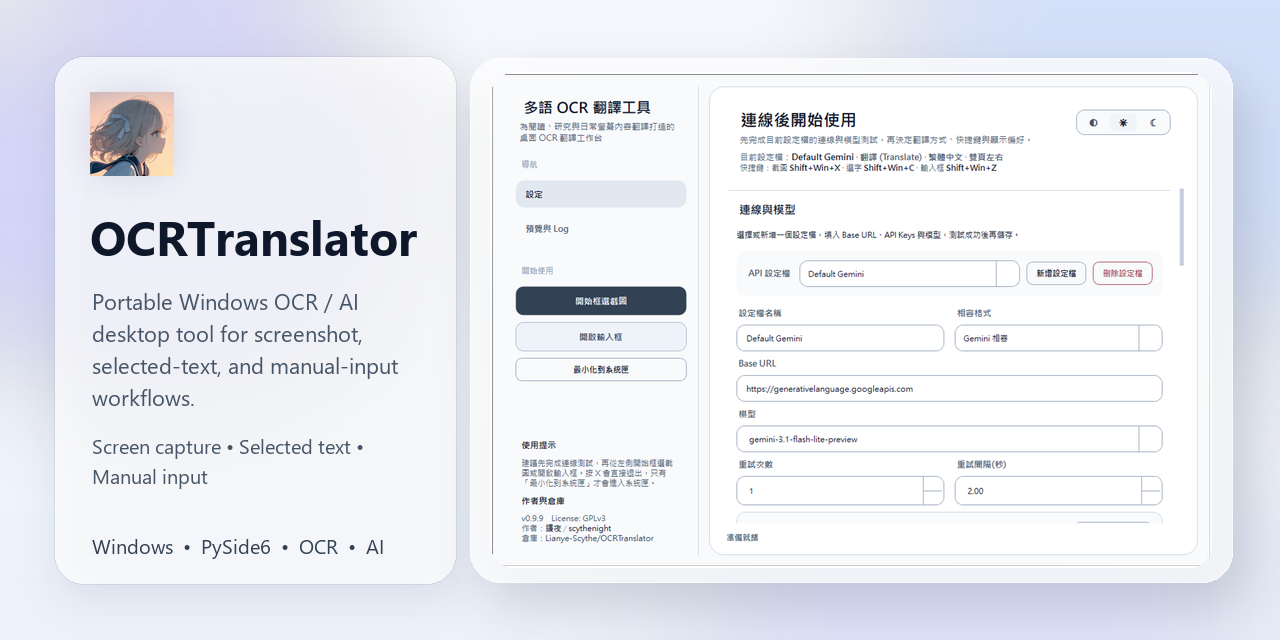
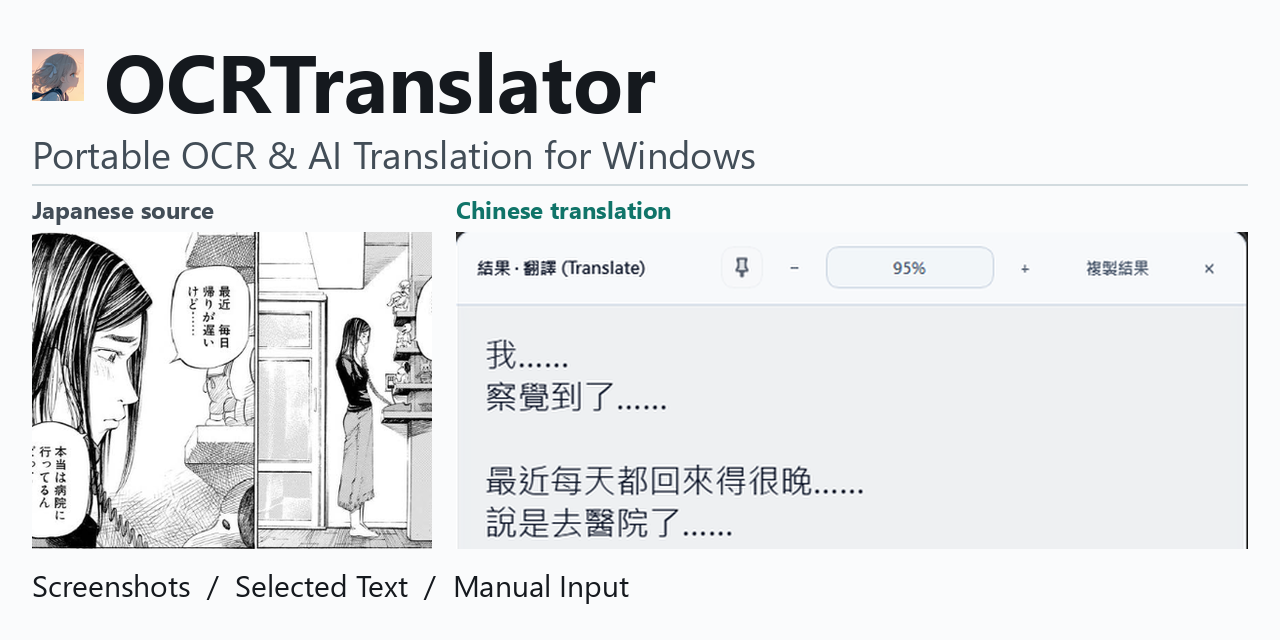
design: make repository sharing preview readable at thumbnail size

diff --git a/tools/generate_social_preview.py b/tools/generate_social_preview.py
@@ -1,215 +1,85 @@
 from __future__ import annotations
 
+import argparse
 from pathlib import Path
 
-from PIL import Image, ImageDraw, ImageFilter, ImageFont, ImageOps
+from PIL import Image, ImageDraw, ImageFont, ImageOps
 
 ROOT = Path(__file__).resolve().parents[1]
-SCREENSHOT_PATH = ROOT / "docs/images/screenshots/main-window-light.png"
+SCREENSHOT_PATH = ROOT / "docs/images/screenshots/overlay-light-manga.png"
 ICON_PATH = ROOT / "app/assets/icons/app-icon-256.png"
 OUTPUT_PATH = ROOT / "docs/images/social-preview.png"
 
-CANVAS_WIDTH = 1280
-CANVAS_HEIGHT = 640
-
-BACKGROUND_TOP = (246, 248, 252)
-BACKGROUND_BOTTOM = (236, 242, 252)
-ACCENT_PRIMARY = (37, 99, 235)
-ACCENT_SECONDARY = (79, 70, 229)
-TEXT_PRIMARY = (15, 23, 42)
-TEXT_SECONDARY = (71, 85, 105)
-TEXT_TERTIARY = (51, 65, 85)
-PANEL_FILL = (255, 255, 255, 188)
-PANEL_BORDER = (148, 163, 184, 54)
-SCREENSHOT_BORDER = (255, 255, 255, 230)
+CANVAS_SIZE = (1280, 640)
+SAFE_MARGIN = 32
+BACKGROUND = (250, 251, 252)
+TEXT_PRIMARY = (21, 25, 30)
+TEXT_SECONDARY = (66, 77, 87)
+ACCENT = (16, 116, 105)
 
 
 def load_font(size: int, bold: bool = False) -> ImageFont.FreeTypeFont | ImageFont.ImageFont:
-    font_candidates = []
-    if bold:
-        font_candidates.extend(
-            [
-                "C:/Windows/Fonts/segoeuib.ttf",
-                "C:/Windows/Fonts/arialbd.ttf",
-                "C:/Windows/Fonts/calibrib.ttf",
-            ]
-        )
-    else:
-        font_candidates.extend(
-            [
-                "C:/Windows/Fonts/segoeui.ttf",
-                "C:/Windows/Fonts/arial.ttf",
-                "C:/Windows/Fonts/calibri.ttf",
-            ]
-        )
-
-    for candidate in font_candidates:
-        if Path(candidate).exists():
-            return ImageFont.truetype(candidate, size=size)
-
+    names = ("segoeuib.ttf", "arialbd.ttf") if bold else ("segoeui.ttf", "arial.ttf")
+    for directory in (Path("C:/Windows/Fonts"), Path("/mnt/c/Windows/Fonts")):
+        for name in names:
+            candidate = directory / name
+            if candidate.is_file():
+                return ImageFont.truetype(str(candidate), size=size)
     try:
-        return ImageFont.truetype("DejaVuSans.ttf", size=size)
+        return ImageFont.truetype("DejaVuSans-Bold.ttf" if bold else "DejaVuSans.ttf", size=size)
     except OSError:
-        return ImageFont.load_default()
+        return ImageFont.load_default(size=size)
 
 
-def vertical_gradient(width: int, height: int, top: tuple[int, int, int], bottom: tuple[int, int, int]) -> Image.Image:
-    image = Image.new("RGB", (width, height))
-    draw = ImageDraw.Draw(image)
-    for y in range(height):
-        ratio = y / max(height - 1, 1)
-        color = tuple(int(top[i] * (1 - ratio) + bottom[i] * ratio) for i in range(3))
-        draw.line((0, y, width, y), fill=color)
-    return image
+def draw_text(draw: ImageDraw.ImageDraw, position: tuple[int, int], text: str, size: int,
+              fill: tuple[int, int, int], *, bold: bool = False) -> None:
+    font = load_font(size, bold=bold)
+    bounds = draw.textbbox(position, text, font=font)
+    if bounds[2] > CANVAS_SIZE[0] - SAFE_MARGIN or bounds[3] > CANVAS_SIZE[1] - SAFE_MARGIN:
+        raise ValueError(f"Text exceeds the social-preview safe area: {text}")
+    draw.text(position, text, font=font, fill=fill)
 
 
-def add_blurred_blob(base: Image.Image, bbox: tuple[int, int, int, int], color: tuple[int, int, int, int], blur_radius: int) -> None:
-    overlay = Image.new("RGBA", base.size, (0, 0, 0, 0))
-    draw = ImageDraw.Draw(overlay)
-    draw.ellipse(bbox, fill=color)
-    overlay = overlay.filter(ImageFilter.GaussianBlur(blur_radius))
-    base.alpha_composite(overlay)
+def render_preview() -> Image.Image:
+    canvas = Image.new("RGB", CANVAS_SIZE, BACKGROUND)
+    draw = ImageDraw.Draw(canvas)
+    with Image.open(ICON_PATH) as icon:
+        icon = icon.convert("RGBA").resize((52, 52), Image.Resampling.LANCZOS)
+        canvas.paste(icon, (SAFE_MARGIN, 49), icon)
 
+    draw_text(draw, (104, 24), "OCRTranslator", 82, TEXT_PRIMARY, bold=True)
+    draw_text(draw, (SAFE_MARGIN, 128), "Portable OCR & AI Translation for Windows", 38, TEXT_SECONDARY)
+    draw.line((SAFE_MARGIN, 184, CANVAS_SIZE[0] - SAFE_MARGIN - 1, 184), fill=(210, 219, 223), width=2)
 
-def rounded_image(image: Image.Image, radius: int) -> Image.Image:
-    mask = Image.new("L", image.size, 0)
-    ImageDraw.Draw(mask).rounded_rectangle((0, 0, image.size[0], image.size[1]), radius=radius, fill=255)
-    rounded = image.copy()
-    rounded.putalpha(mask)
-    return rounded
+    draw_text(draw, (SAFE_MARGIN, 193), "Japanese source", 24, TEXT_SECONDARY, bold=True)
+    draw_text(draw, (456, 193), "Chinese translation", 24, ACCENT, bold=True)
 
+    # Crop a real reading example, retaining the result window's native toolbar.
+    with Image.open(SCREENSHOT_PATH) as screenshot:
+        source = screenshot.crop((600, 0, 1130, 325)).convert("RGB")
+        translation = screenshot.crop((18, 16, 583, 242)).convert("RGB")
+        height = round(792 * translation.height / translation.width)
+        source = ImageOps.fit(source, (400, height), method=Image.Resampling.LANCZOS)
+        translation = translation.resize((792, height), Image.Resampling.LANCZOS)
+        canvas.paste(source, (SAFE_MARGIN, 232))
+        canvas.paste(translation, (456, 232))
 
-def fit_within(image: Image.Image, max_width: int, max_height: int) -> Image.Image:
-    fitted = image.copy()
-    fitted.thumbnail((max_width, max_height), Image.Resampling.LANCZOS)
-    return fitted
-
-
-def text_size(draw: ImageDraw.ImageDraw, text: str, font: ImageFont.ImageFont) -> tuple[int, int]:
-    left, top, right, bottom = draw.textbbox((0, 0), text, font=font)
-    return right - left, bottom - top
-
-
-def fit_font(draw: ImageDraw.ImageDraw, text: str, max_width: int, start_size: int, min_size: int, bold: bool = False) -> ImageFont.ImageFont:
-    for size in range(start_size, min_size - 1, -2):
-        font = load_font(size, bold=bold)
-        width, _ = text_size(draw, text, font)
-        if width <= max_width:
-            return font
-    return load_font(min_size, bold=bold)
-
-
-def wrap_text(draw: ImageDraw.ImageDraw, text: str, font: ImageFont.ImageFont, max_width: int) -> list[str]:
-    words = text.split()
-    if not words:
-        return [""]
-
-    lines: list[str] = []
-    current = words[0]
-    for word in words[1:]:
-        candidate = f"{current} {word}"
-        width, _ = text_size(draw, candidate, font)
-        if width <= max_width:
-            current = candidate
-        else:
-            lines.append(current)
-            current = word
-    lines.append(current)
-    return lines
-
-
-def draw_wrapped_text(draw: ImageDraw.ImageDraw, position: tuple[int, int], text: str, font: ImageFont.ImageFont, fill: tuple[int, int, int], max_width: int, line_spacing: int) -> int:
-    x, y = position
-    lines = wrap_text(draw, text, font, max_width)
-    _, line_height = text_size(draw, "Ag", font)
-    draw.multiline_text((x, y), "\n".join(lines), font=font, fill=fill, spacing=line_spacing)
-    return len(lines) * line_height + max(len(lines) - 1, 0) * line_spacing
-
-
-def draw_shadow(base: Image.Image, bbox: tuple[int, int, int, int], radius: int, blur_radius: int, color: tuple[int, int, int, int]) -> None:
-    overlay = Image.new("RGBA", base.size, (0, 0, 0, 0))
-    draw = ImageDraw.Draw(overlay)
-    draw.rounded_rectangle(bbox, radius=radius, fill=color)
-    overlay = overlay.filter(ImageFilter.GaussianBlur(blur_radius))
-    base.alpha_composite(overlay)
+    draw_text(draw, (SAFE_MARGIN, 564), "Screenshots  /  Selected Text  /  Manual Input", 30, TEXT_PRIMARY)
+    return canvas
 
 
 def main() -> None:
-    OUTPUT_PATH.parent.mkdir(parents=True, exist_ok=True)
-
-    background = vertical_gradient(CANVAS_WIDTH, CANVAS_HEIGHT, BACKGROUND_TOP, BACKGROUND_BOTTOM).convert("RGBA")
-    add_blurred_blob(background, (-60, -20, 420, 400), (*ACCENT_SECONDARY, 48), 55)
-    add_blurred_blob(background, (860, -80, 1360, 360), (*ACCENT_PRIMARY, 40), 65)
-    add_blurred_blob(background, (700, 360, 1240, 760), (*ACCENT_SECONDARY, 24), 72)
-
-    screenshot = Image.open(SCREENSHOT_PATH).convert("RGBA")
-    icon = Image.open(ICON_PATH).convert("RGBA")
-
-    screenshot = screenshot.crop((0, 34, screenshot.size[0], screenshot.size[1]))
-
-    panel_box = (54, 56, 456, 584)
-    draw_shadow(background, (panel_box[0] + 4, panel_box[1] + 12, panel_box[2] + 4, panel_box[3] + 12), 30, 20, (15, 23, 42, 24))
-    panel_overlay = Image.new("RGBA", background.size, (0, 0, 0, 0))
-    panel_draw = ImageDraw.Draw(panel_overlay)
-    panel_draw.rounded_rectangle(panel_box, radius=30, fill=PANEL_FILL, outline=PANEL_BORDER, width=1)
-    background.alpha_composite(panel_overlay)
-
-    draw = ImageDraw.Draw(background)
-    text_max_width = panel_box[2] - panel_box[0] - 72
-
-    title_font = fit_font(draw, "OCRTranslator", text_max_width, start_size=54, min_size=40, bold=True)
-    subtitle_font = load_font(22)
-    meta_font = load_font(20)
-
-    icon_size = 84
-    icon_render = icon.resize((icon_size, icon_size), Image.Resampling.LANCZOS)
-    draw_shadow(background, (90, 92, 90 + icon_size, 92 + icon_size), 22, 14, (37, 99, 235, 30))
-    background.alpha_composite(icon_render, (90, 92))
-
-    draw.text((90, 204), "OCRTranslator", font=title_font, fill=TEXT_PRIMARY)
-    subtitle_height = draw_wrapped_text(
-        draw,
-        (92, 286),
-        "Portable Windows OCR / AI desktop tool for screenshot, selected-text, and manual-input workflows.",
-        subtitle_font,
-        TEXT_SECONDARY,
-        max_width=text_max_width,
-        line_spacing=8,
-    )
-
-    meta_y = 286 + subtitle_height + 38
-    draw_wrapped_text(
-        draw,
-        (92, meta_y),
-        "Screen capture  •  Selected text  •  Manual input",
-        meta_font,
-        TEXT_SECONDARY,
-        max_width=text_max_width,
-        line_spacing=8,
-    )
-    draw.text((92, panel_box[3] - 52), "Windows  •  PySide6  •  OCR  •  AI", font=meta_font, fill=TEXT_TERTIARY)
-
-    frame_box = (470, 58, 1232, 582)
-    draw_shadow(background, (frame_box[0] + 14, frame_box[1] + 22, frame_box[2] + 14, frame_box[3] + 22), 32, 24, (15, 23, 42, 38))
-
-    frame_overlay = Image.new("RGBA", background.size, (0, 0, 0, 0))
-    frame_draw = ImageDraw.Draw(frame_overlay)
-    frame_draw.rounded_rectangle(frame_box, radius=30, fill=(255, 255, 255, 194), outline=(255, 255, 255, 224), width=1)
-    background.alpha_composite(frame_overlay)
-
-    content_padding = 16
-    content_width = frame_box[2] - frame_box[0] - content_padding * 2
-    content_height = frame_box[3] - frame_box[1] - content_padding * 2
-    fitted_screenshot = fit_within(screenshot, content_width, content_height)
-    fitted_screenshot = ImageOps.expand(fitted_screenshot, border=2, fill=SCREENSHOT_BORDER)
-    rounded_screenshot = rounded_image(fitted_screenshot, radius=26)
-
-    screenshot_x = frame_box[0] + (frame_box[2] - frame_box[0] - rounded_screenshot.size[0]) // 2
-    screenshot_y = frame_box[1] + (frame_box[3] - frame_box[1] - rounded_screenshot.size[1]) // 2
-    background.alpha_composite(rounded_screenshot, (screenshot_x, screenshot_y))
-
-    background.convert("RGB").save(OUTPUT_PATH, format="PNG", optimize=True)
-    print(f"Created {OUTPUT_PATH}")
+    parser = argparse.ArgumentParser(description="Render the GitHub sharing image from real application assets.")
+    parser.add_argument("--output", type=Path, default=OUTPUT_PATH)
+    parser.add_argument("--thumbnail", type=Path, help="Also write a 320x160 review image.")
+    args = parser.parse_args()
+    preview = render_preview()
+    args.output.parent.mkdir(parents=True, exist_ok=True)
+    preview.save(args.output, format="PNG", optimize=True)
+    if args.thumbnail:
+        args.thumbnail.parent.mkdir(parents=True, exist_ok=True)
+        preview.resize((320, 160), Image.Resampling.LANCZOS).save(args.thumbnail, format="PNG", optimize=True)
+    print(f"Created {args.output}")
 
 
 if __name__ == "__main__":

diff --git a/tests/test_social_preview.py b/tests/test_social_preview.py
@@ -1,0 +1,43 @@
+import tempfile
+import unittest
+from pathlib import Path
+from unittest.mock import patch
+
+from PIL import Image, ImageChops, ImageDraw
+
+from tools import generate_social_preview as preview
+
+
+class SocialPreviewTests(unittest.TestCase):
+    def test_render_has_safe_margins_and_nonempty_source_and_result(self):
+        image = preview.render_preview()
+        self.assertEqual(image.size, (1280, 640))
+        self.assertEqual(image.mode, "RGB")
+        background = Image.new("RGB", image.size, preview.BACKGROUND)
+        bounds = ImageChops.difference(image, background).getbbox()
+        self.assertGreaterEqual(bounds[0], preview.SAFE_MARGIN)
+        self.assertGreaterEqual(bounds[1], preview.SAFE_MARGIN)
+        self.assertLessEqual(bounds[2], image.width - preview.SAFE_MARGIN)
+        self.assertLessEqual(bounds[3], image.height - preview.SAFE_MARGIN)
+        for box in ((32, 232, 432, 549), (456, 232, 1248, 549)):
+            self.assertIsNotNone(ImageChops.difference(image.crop(box), background.crop(box)).getbbox())
+
+    def test_text_overflow_fails_instead_of_silently_clipping(self):
+        image = Image.new("RGB", preview.CANVAS_SIZE)
+        with self.assertRaises(ValueError):
+            preview.draw_text(ImageDraw.Draw(image), (32, 32), "OCRTranslator" * 20, 82, (0, 0, 0))
+
+    def test_cli_writes_full_size_and_review_thumbnail(self):
+        with tempfile.TemporaryDirectory() as directory:
+            output = Path(directory) / "full" / "social.png"
+            thumbnail = Path(directory) / "review" / "small.png"
+            with patch("sys.argv", ["preview", "--output", str(output), "--thumbnail", str(thumbnail)]):
+                preview.main()
+            for file, size in ((output, (1280, 640)), (thumbnail, (320, 160))):
+                with Image.open(file) as image:
+                    self.assertEqual(image.size, size)
+                self.assertLess(file.stat().st_size, 1_000_000)
+
+
+if __name__ == "__main__":
+    unittest.main()

diff --git a/docs/development.en.md b/docs/development.en.md
@@ -117,3 +117,9 @@ Current automated checks focus on:
 To update dependencies, adjust `constraints.txt` and minimum requirements when needed. Install and run `python -m pip check` and tests on both Windows and WSL; packaging changes must also pass Windows CI packaging. Do not overwrite the cross-platform constraints with a single environment's complete `pip freeze`, or update only one local virtual environment.
 
 Constraints pin installed package versions, not pip, Python patches, isolated build tools, or artifact hashes. They do not guarantee byte-identical executables and do not change existing release ZIPs.
+
+## Maintaining the sharing image
+
+Run `python tools/generate_social_preview.py --thumbnail build/social-preview-320.png` to update `docs/images/social-preview.png` and produce a 320 × 160 review image. The generator uses a real translation-overlay screenshot from the repository. Recheck crops, text, and safe margins when changing source assets.
+
+After committing the image, upload the new PNG under repository Settings → Social preview → Edit. GitHub does not automatically use a repository image as its sharing image. Sharing platforms may also cache the previous preview.

diff --git a/docs/development.md b/docs/development.md
@@ -117,3 +117,9 @@ python -m compileall app tests launcher.pyw
 更新依賴時，調整 `constraints.txt`，必要時同步最低版本範圍，並在 Windows 與 WSL 分別安裝、執行 `python -m pip check` 和測試；涉及打包依賴時確認 Windows CI 打包成功。不要將單一環境的完整 `pip freeze` 直接覆蓋跨平台約束檔，也不要只更新其中一台的虛擬環境。
 
 約束檔固定套件版本，但不固定 pip、Python 修補版、隔離建置工具或下載檔案雜湊，不保證逐位元組相同的 exe。已發布 ZIP 不會因更新原始碼的約束檔而改變。
+
+## 分享圖維護
+
+執行 `python tools/generate_social_preview.py --thumbnail build/social-preview-320.png`，更新 `docs/images/social-preview.png` 並產生 320 × 160 檢查圖。產圖使用倉庫內的真實翻譯浮窗截圖；更換來源素材時需重新檢查裁切位置、文字與安全邊界。
+
+圖片提交到 GitHub 後，仍須在倉庫 Settings → Social preview → Edit 上傳新版 PNG；GitHub 不會自動把倉庫內圖片設為分享圖。各分享平台也可能保留舊預覽快取。

diff --git a/docs/development.zh-CN.md b/docs/development.zh-CN.md
@@ -117,3 +117,9 @@ python -m compileall app tests launcher.pyw
 更新依赖时，调整 `constraints.txt`，必要时同步最低版本范围，并在 Windows 和 WSL 分别安装、运行 `python -m pip check` 和测试；涉及打包依赖时确认 Windows CI 打包成功。不要用单一环境的完整 `pip freeze` 直接覆盖跨平台约束文件，也不要只更新其中一台的虚拟环境。
 
 约束文件固定包版本，但不固定 pip、Python 补丁版、隔离构建工具或下载文件哈希，不保证逐字节相同的 exe，也不会改变已经发布的 ZIP。
+
+## 分享图维护
+
+运行 `python tools/generate_social_preview.py --thumbnail build/social-preview-320.png`，更新 `docs/images/social-preview.png` 并生成 320 × 160 检查图。产图使用仓库内的真实翻译浮窗截图；更换素材时需要重新检查裁剪位置、文字和安全边距。
+
+图片提交到 GitHub 后，仍需在仓库 Settings → Social preview → Edit 上传新版 PNG；GitHub 不会自动把仓库内图片设为分享图。各分享平台也可能保留旧预览缓存。
